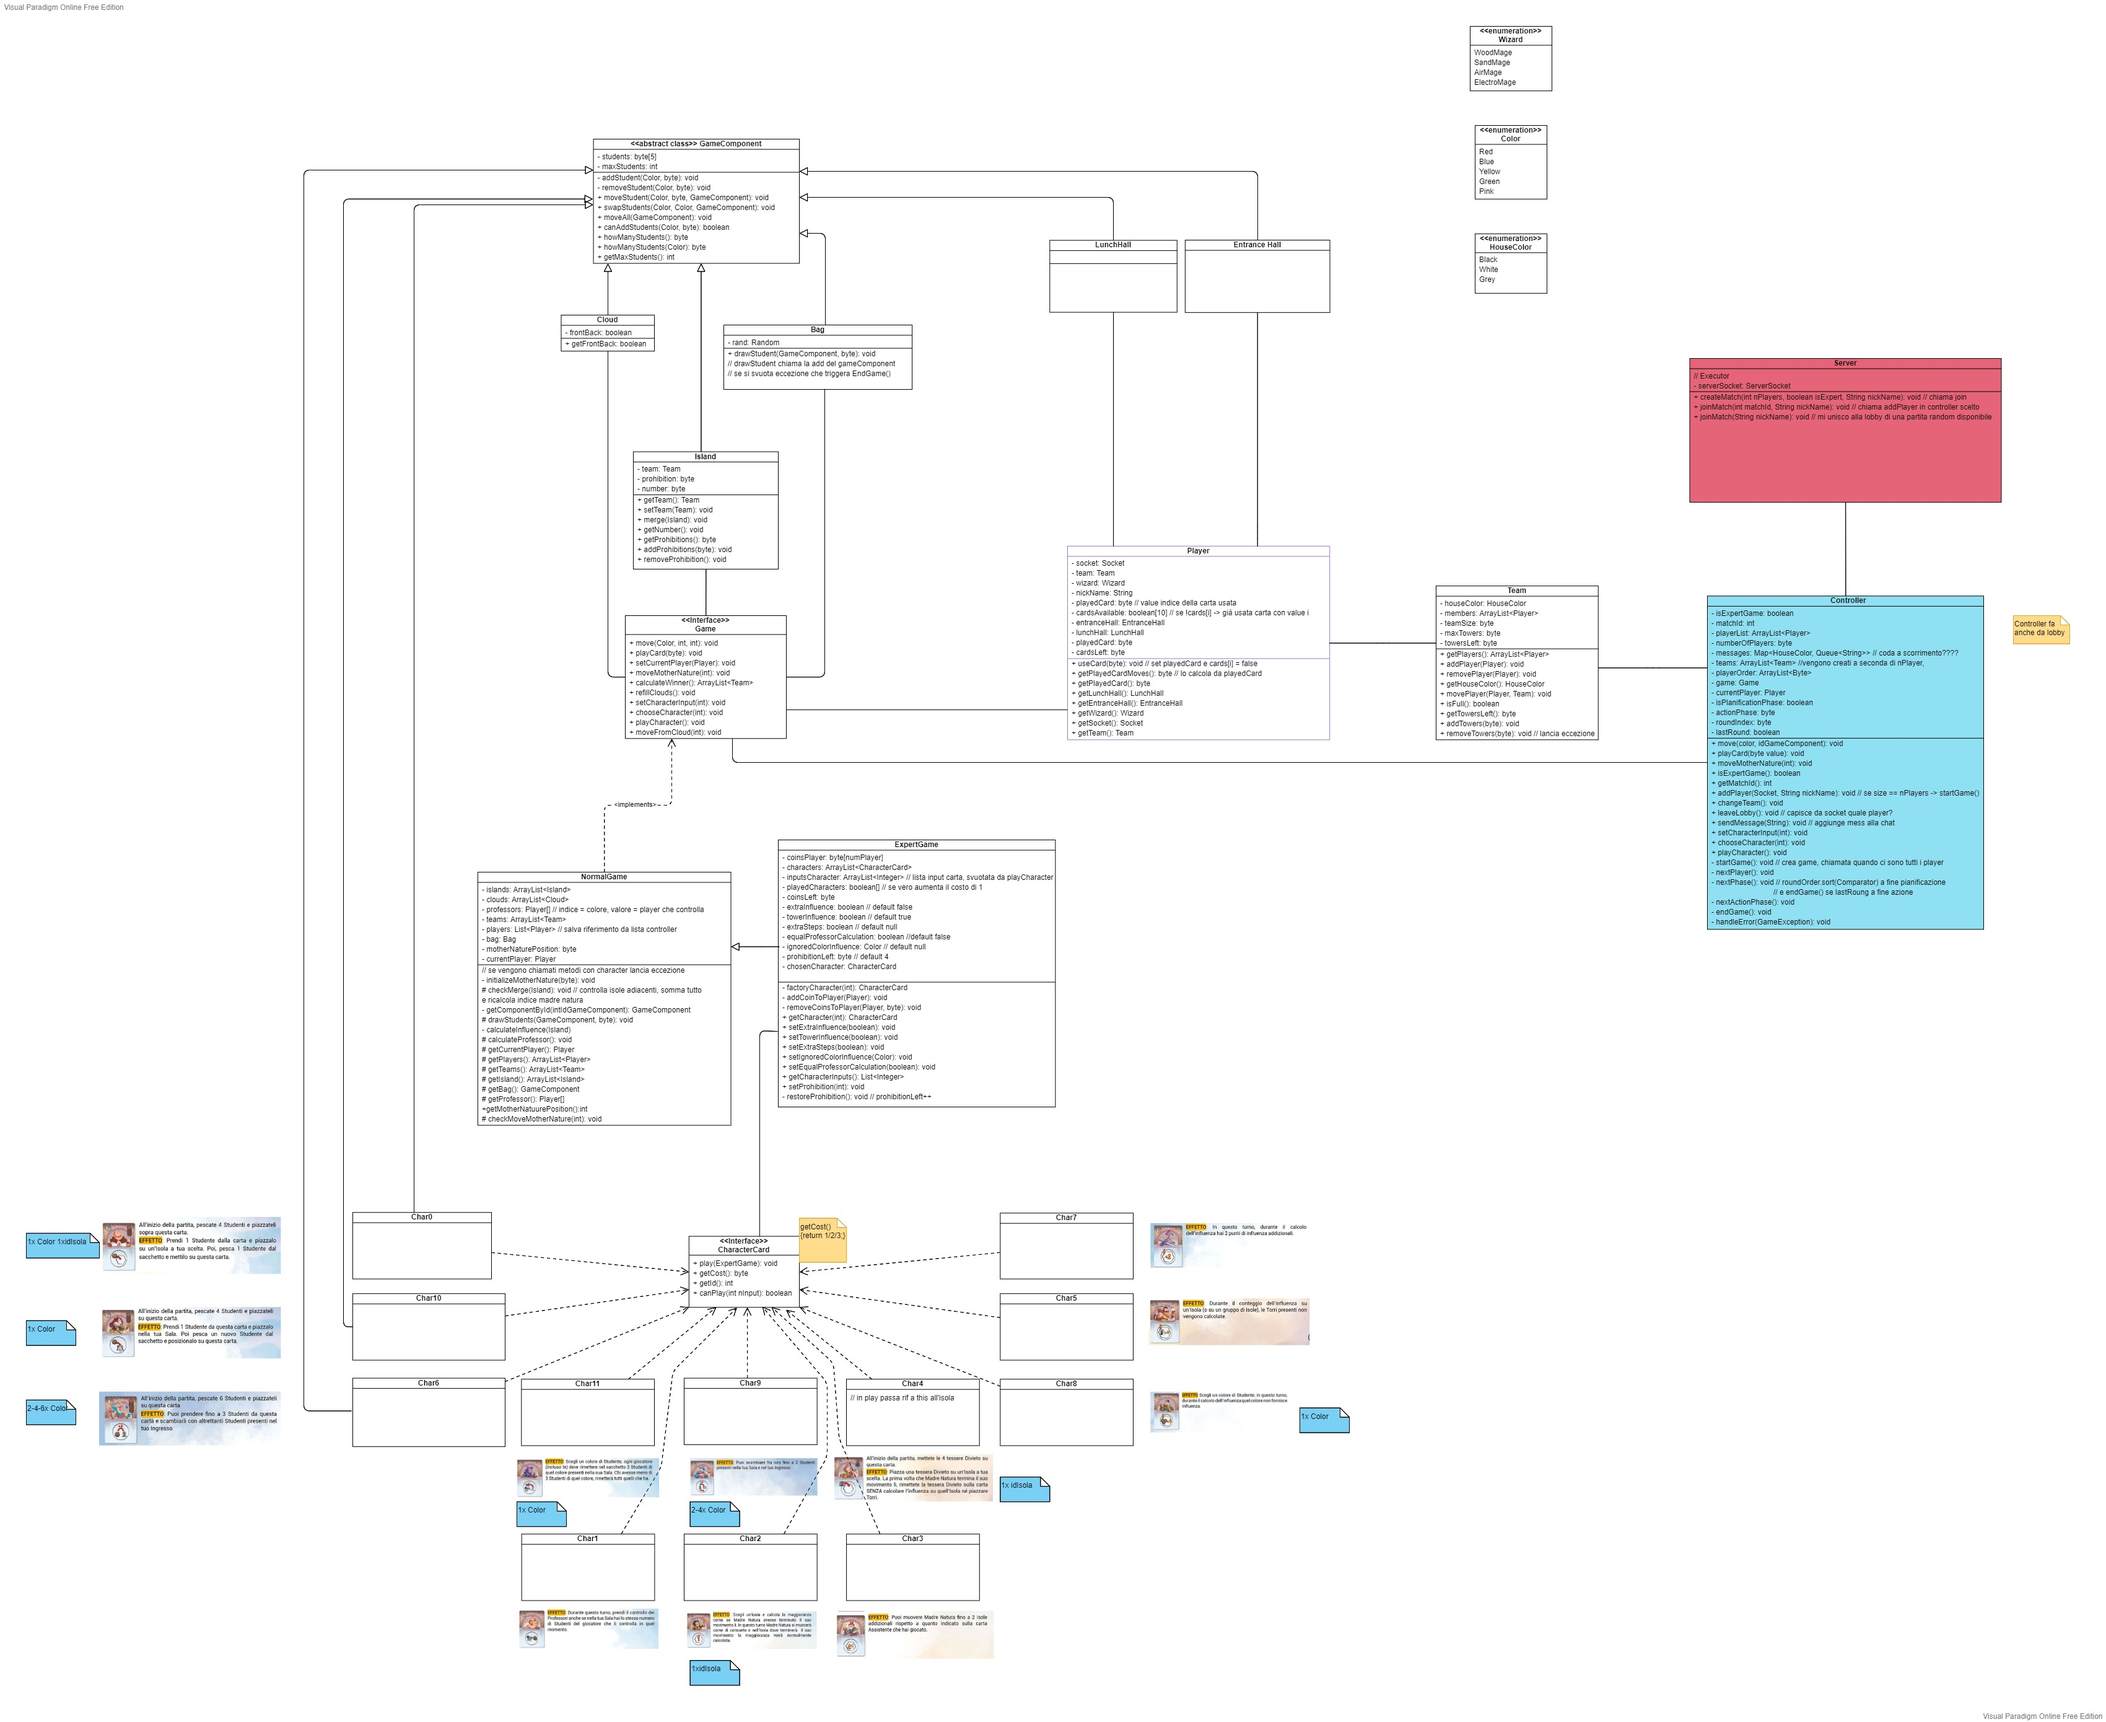
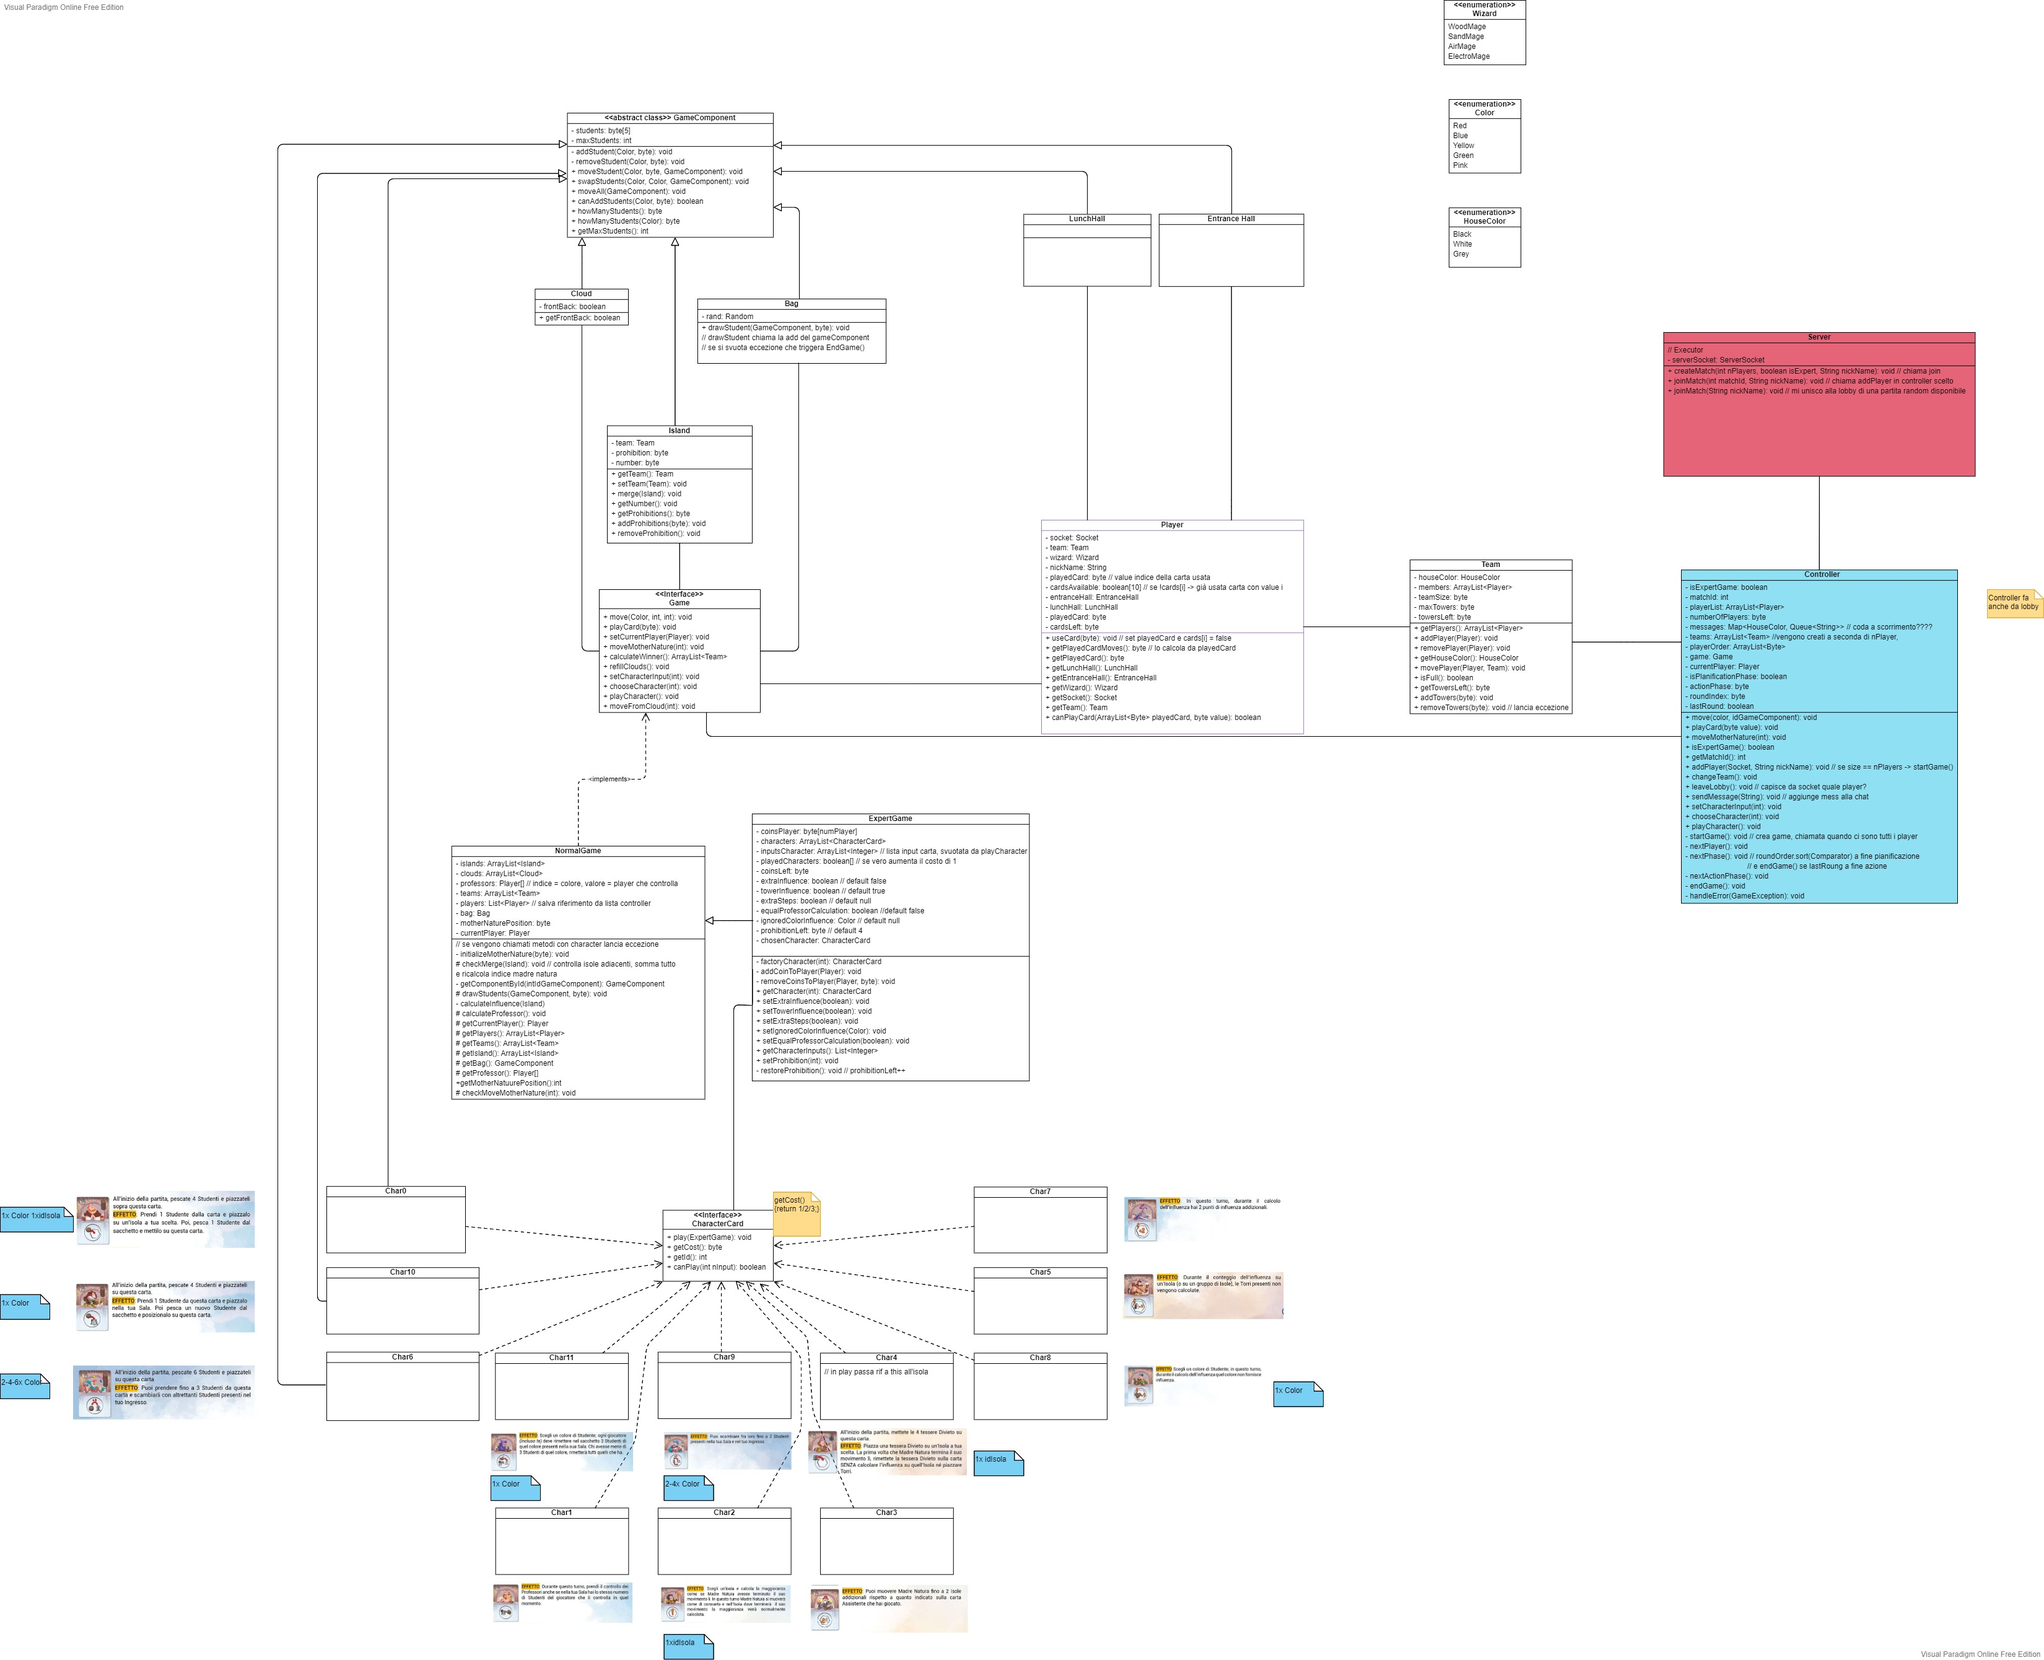
add playedCard control in the controller and added the canPlayCard in Player and its test

diff --git a/src/test/java/it/polimi/ingsw/model/NormalGameTest.java b/src/test/java/it/polimi/ingsw/model/NormalGameTest.java
@@ -2,6 +2,7 @@ package it.polimi.ingsw.model;
 
 import it.polimi.ingsw.exceptions.EndGameException;
 import it.polimi.ingsw.exceptions.GameException;
+import it.polimi.ingsw.exceptions.NotAllowedException;
 import it.polimi.ingsw.exceptions.NotExpertGameException;
 import org.junit.jupiter.api.Test;
 
@@ -248,13 +249,66 @@ public class NormalGameTest {
 
     @Test
     void moveTest() {
+        assertThrows(NotAllowedException.class, () -> gameWith2.move(Color.RED, -5, -6), "" +
+                "Wrong Index should catch an error");
+        //move from entrance to island with index 2
+        for (Color c : Color.values()) {
+            if (gameWith2.getCurrentPlayer().getEntranceHall().howManyStudents(c) > 0) {
+                byte studentsBefore = gameWith2.getIslands().get(2).howManyStudents(c);
+                try {
+                    gameWith2.move(c, 0, 4);
+                } catch (GameException e) {
+                    fail();
+                }
+                assertEquals(studentsBefore + 1, gameWith2.getIslands().get(2).howManyStudents(c));
+            }
+        }
+    }
+
+    @Test
+    void checkMoveMotherNatureTest() {
+        gameWith3.setCurrentPlayer(p1_3);
+        try {
+            gameWith3.playCard((byte) 5);
+        } catch (GameException | EndGameException e) {
+            fail();
+        }
+        assertThrows(NotAllowedException.class, () -> gameWith3.checkMoveMotherNature(p1_3.getPlayedCardMoves() + 1));
+        try {
+            gameWith3.checkMoveMotherNature(p1_3.getPlayedCardMoves());
+        } catch (GameException ex) {
+            fail();
+        }
 
     }
 
     @Test
     void moveMotherNatureTest() {
         //now it's the beginning of a game
-
+        //TODO also need to test the calculateInfluence
+        try {
+            gameWith4.playCard((byte) 3);
+        } catch (GameException | EndGameException e) {
+            fail();
+        }
+        gameWith4.setCurrentPlayer(p2_4);
+        try {
+            gameWith4.playCard((byte) 5);
+        } catch (GameException | EndGameException e) {
+            fail();
+        }
+        gameWith4.setCurrentPlayer(p3_4);
+        try {
+            gameWith4.playCard((byte) 6);
+        } catch (GameException | EndGameException e) {
+            fail();
+        }
+        gameWith4.setCurrentPlayer(p4_4);
+        try {
+            gameWith4.playCard((byte) 8);
+        } catch (GameException | EndGameException e) {
+            fail();
+        }
     }
 
     @Test

diff --git a/src/main/java/it/polimi/ingsw/model/NormalGame.java b/src/main/java/it/polimi/ingsw/model/NormalGame.java
@@ -91,20 +91,6 @@ public class NormalGame implements Game {
 
     }
 
-    private GameComponent getComponentById(int idGameComponent) throws NotAllowedException {
-        //0 is for the entranceHall, 1 is for the LunchHall, negative numbers are for clouds, and from 2 is islands.
-        if (idGameComponent < (-clouds.size()) || idGameComponent >= (islands.size() + 2)) {
-            throw new NotAllowedException("idGameComponent not valid");
-        }
-        if (idGameComponent < 0)
-            return clouds.get(-idGameComponent - 1);
-        if (idGameComponent == 0)
-            return currentPlayer.getEntranceHall();
-        if (idGameComponent == 1)
-            return currentPlayer.getLunchHall();
-        return islands.get(idGameComponent - 2);
-    }
-
     protected void drawStudents(GameComponent gameComponent, byte students) throws EndGameException {
         try {
             bag.drawStudent(gameComponent, students);
@@ -123,7 +109,23 @@ public class NormalGame implements Game {
 
     @Override
     public void playCard(byte card) throws GameException, EndGameException {
-        currentPlayer.useCard(card);
+
+            currentPlayer.useCard(card);
+
+    }
+
+    private GameComponent getComponentById(int idGameComponent) throws NotAllowedException {
+        //0 is for the entranceHall, 1 is for the LunchHall, negative numbers are for clouds, and from 2 is islands.
+        if (idGameComponent < (-clouds.size()) || idGameComponent >= (islands.size() + 2)) {
+            throw new NotAllowedException("idGameComponent not valid");
+        }
+        if (idGameComponent < 0)
+            return clouds.get(-idGameComponent - 1);
+        if (idGameComponent == 0)
+            return currentPlayer.getEntranceHall();
+        if (idGameComponent == 1)
+            return currentPlayer.getLunchHall();
+        return islands.get(idGameComponent - 2);
     }
 
 

diff --git a/src/main/java/it/polimi/ingsw/controller/Controller.java b/src/main/java/it/polimi/ingsw/controller/Controller.java
@@ -69,21 +69,39 @@ public class Controller {
         }
         nextActionPhase();
     }
-
+    //the value here need to go from 1 to 10
     public void playCard(byte value) {
         if (!isPlanificationPhase) {
             handleError(new NotAllowedException("Not in planification phase"));
             return;
         }
-        try {
-            game.playCard(value);
-        } catch (GameException e) {
-            handleError(e);
-        } catch (EndGameException e) {
-            if (e.isEndInstantly()) endGame();
-            else lastRound = true;
+        ArrayList<Byte> playedCards=new ArrayList<>();
+        //loop where I put in playedCard the previous card played by other Player.If it's current Player
+        //it breaks the loop 'cause there aren't other previous player
+        for (int i = 0; i < playersList.size(); i++) {
+            Player player = playersList.get((playerOrder.get(0) + roundIndex + i) % playersList.size());
+            if (currentPlayer.equals(player)){
+                break;
+            }
+            else {
+                playedCards.add(player.getPlayedCard());
+            }
         }
-        nextPlayer();
+
+        if(currentPlayer.canPlayCard(playedCards,value)){
+            try {
+                game.playCard(value);
+            } catch (GameException e) {
+                handleError(e);
+            } catch (EndGameException e) {
+                if (e.isEndInstantly()) endGame();
+                else lastRound = true;
+            }
+                nextPlayer();
+        }
+        else {
+            handleError(new NotAllowedException("Cannot play this card"));
+        }
     }
 
     public void moveMotherNature(int i) {

diff --git a/src/test/java/it/polimi/ingsw/model/PlayerTest.java b/src/test/java/it/polimi/ingsw/model/PlayerTest.java
@@ -4,6 +4,7 @@ import it.polimi.ingsw.exceptions.*;
 import org.junit.jupiter.api.Test;
 
 import java.net.Socket;
+import java.util.ArrayList;
 
 import static org.junit.jupiter.api.Assertions.*;
 
@@ -100,4 +101,34 @@ class PlayerTest {
     void testToString() {
         assertEquals(p.toString(), "prova");
     }
+    @Test
+    void canPlayCardTest(){
+        ArrayList<Byte> playedCards=new ArrayList<>();
+        assertTrue(p.canPlayCard(playedCards,(byte) 5));
+
+
+        playedCards.add((byte)5);
+        assertFalse(p.canPlayCard(playedCards,(byte) 5));
+
+
+        try {
+            p.useCard((byte)1);
+            p.useCard((byte)2);
+            p.useCard((byte)6);
+            p.useCard((byte)7);
+            p.useCard((byte) 8);
+            p.useCard((byte) 9);
+            p.useCard((byte)10 );
+        } catch (UsedCardException | UnexpectedValueException | NotAllowedException | EndGameException e) {
+            fail();
+        }
+
+        playedCards.add((byte) 3);
+        playedCards.add((byte) 4);
+        playedCards.add((byte)5);
+        assertTrue(p.canPlayCard(playedCards,(byte)5));
+
+
+    }
+
 }

diff --git a/src/main/java/it/polimi/ingsw/model/Player.java b/src/main/java/it/polimi/ingsw/model/Player.java
@@ -4,6 +4,7 @@ package it.polimi.ingsw.model;
 import it.polimi.ingsw.exceptions.*;
 
 import java.net.Socket;
+import java.util.ArrayList;
 import java.util.Comparator;
 
 public class Player implements Comparator<Player> {
@@ -51,6 +52,23 @@ public class Player implements Comparator<Player> {
         return playedCard;
     }
 
+    public boolean canPlayCard(ArrayList<Byte> playedCards,byte value){
+        //the value goes from 1 to 10
+        if(playedCards.size()==0)
+            return true;
+        boolean oneDifferentCard=false;
+        if(playedCards.contains(value)) {
+            for (int i = 0; i < cardsAvailable.length && !oneDifferentCard; i++) {
+                if (cardsAvailable[i] && !playedCards.contains((byte) (i+1))) {
+                    oneDifferentCard = true;
+                }
+            }
+            return !oneDifferentCard;
+        }
+        else {
+            return true;
+        }
+    }
     public LunchHall getLunchHall() {
         return lunchHall;
     }
